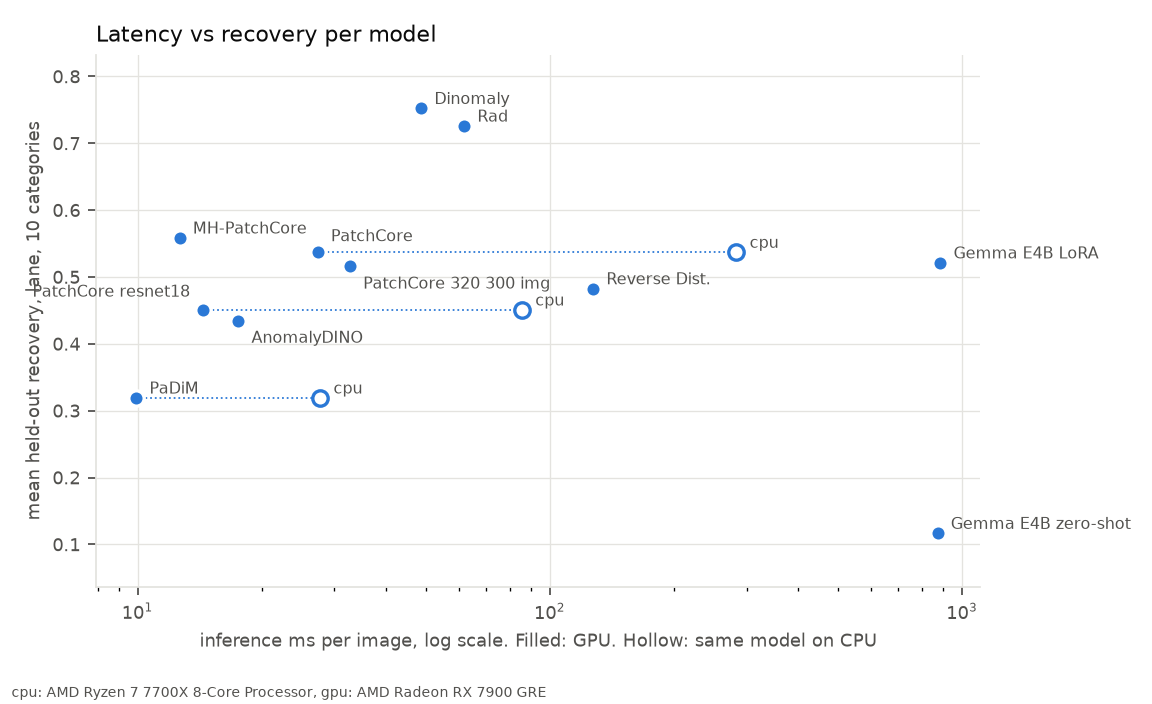
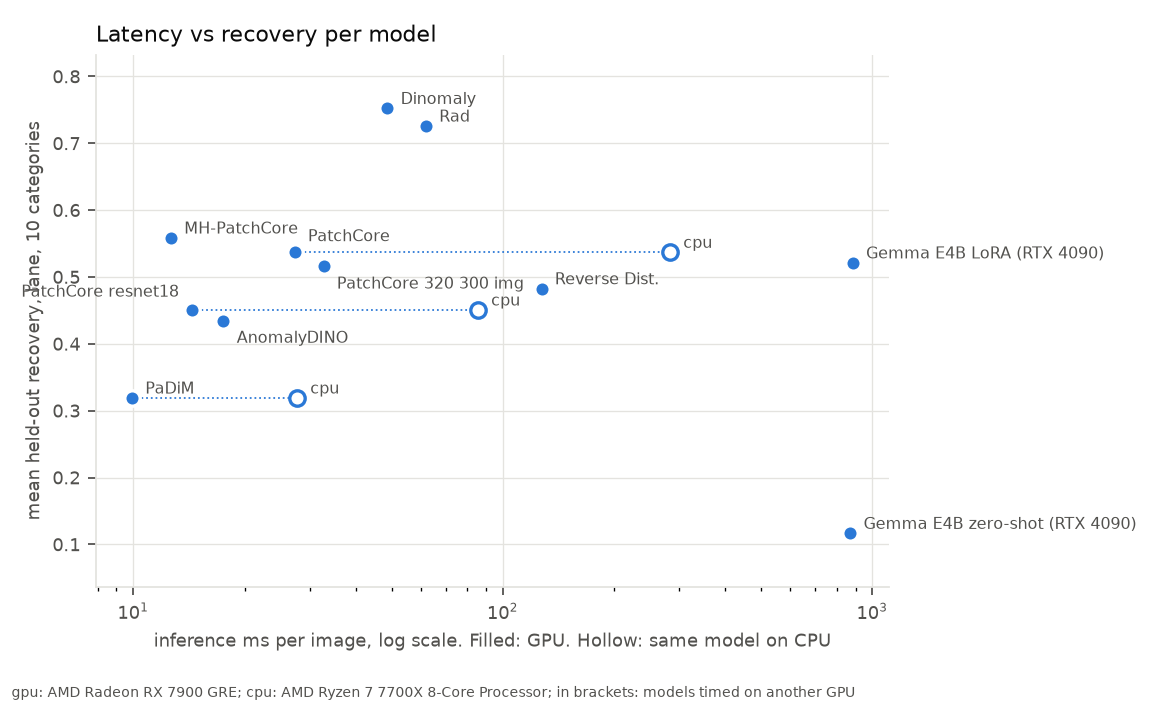
figures: Gemma in the lane.py figures, speed plot names the GPU per model
- auroc_vs_recovery, recovery_curves and recovery_vs_frr are written by lane.py to
  results/figures; the previous commit still carried the pre-Gemma copies in docs/figures.
- speed_vs_recovery: Gemma was timed on an RTX 4090, the anomalib models on the RX 7900 GRE,
  so points timed on another GPU are labelled with it and the footer says so.

diff --git a/scripts/figures.py b/scripts/figures.py
@@ -118,6 +118,11 @@ def resolution(df: pd.DataFrame, out: Path) -> None:
     plt.close(fig)
 
 
+def short(device: str) -> str:
+    """'NVIDIA GeForce RTX 4090' -> 'RTX 4090'"""
+    return device.replace("NVIDIA GeForce ", "").replace("AMD Radeon ", "")
+
+
 def speed(df: pd.DataFrame, devices: dict, out: Path) -> None:
     """Mean lane recovery vs latency per model on the GPU. A hollow marker at the same height shows
     the same model's latency on the CPU where it was timed (tag suffix -cpu, bottle only)."""
@@ -126,13 +131,17 @@ def speed(df: pd.DataFrame, devices: dict, out: Path) -> None:
     full = rows.groupby("category").model.nunique() == len(names)  # categories with every main model
     rows = rows[rows.category.isin(full[full].index)]
     gpu = rows.groupby("model").agg(rec=(COL, "mean"), ms=("ms_per_image", "mean"))
+    gpu_devs = [devices.get(m, "") for m in gpu.index if not m.endswith("-cpu")]
+    main_gpu = max(set(gpu_devs), key=gpu_devs.count) if gpu_devs else ""  # the GPU most models ran on
     cpu = df[df.model.str.endswith("-cpu")].groupby("model").agg(ms=("ms_per_image", "mean"))
     offsets = {"patchcore": (6, 5), "patchcore-320-n300": (6, -10), "patchcore-r18": (-6, 6), "anomalydino": (6, -10)}
     fig, ax = plt.subplots(figsize=(7.2, 4.4))
     for m, r in gpu.iterrows():
         ax.scatter(r.ms, r.rec, s=48, color=SERIES[0], edgecolor="#ffffff", linewidth=1.5, zorder=3)
         dx, dy = offsets.get(m, (6, 2))
-        ax.annotate(names[m].replace("\n", " "), (r.ms, r.rec), xytext=(dx, dy), textcoords="offset points", fontsize=7, color=INK2,
+        dev = devices.get(m, "")
+        label = names[m].replace("\n", " ") + (f" ({short(dev)})" if dev and dev != main_gpu else "")
+        ax.annotate(label, (r.ms, r.rec), xytext=(dx, dy), textcoords="offset points", fontsize=7, color=INK2,
                     ha="right" if dx < 0 else "left")
         if f"{m}-cpu" in cpu.index:
             cms = cpu.loc[f"{m}-cpu", "ms"]
@@ -144,7 +153,8 @@ def speed(df: pd.DataFrame, devices: dict, out: Path) -> None:
     ax.set_ylabel(f"mean held-out recovery, lane, {rows.category.nunique()} categories", fontsize=8, color=INK2)
     ax.set_ylim(max(0.0, gpu.rec.min() - 0.08), min(1.0, gpu.rec.max() + 0.08))
     ax.set_title("Latency vs recovery per model", fontsize=10, color=INK, loc="left")
-    fig.text(0.01, 0.01, ", ".join(f"{k}: {v}" for k, v in sorted(devices.items())), fontsize=6.5, color=INK2)
+    fig.text(0.01, 0.01, "gpu: " + main_gpu + "; cpu: " + ", ".join(sorted({v for k, v in devices.items() if k.endswith("-cpu")}))
+             + "; in brackets: models timed on another GPU", fontsize=6.5, color=INK2)
     style(ax)
     ax.xaxis.grid(True, color=GRID, linewidth=0.6)
     fig.tight_layout(rect=(0, 0.04, 1, 1))
@@ -162,7 +172,7 @@ def main() -> None:
     for f in Path(a.results).glob("*.json"):
         j = json.load(open(f))
         if "device" in j:
-            devices["cpu" if j["model"].endswith("-cpu") else "gpu"] = j["device"]
+            devices[j["model"]] = j["device"]  # one entry per model; runs of one model share a device
     out = Path(a.out)
     out.mkdir(parents=True, exist_ok=True)
     heatmap(df, out)
